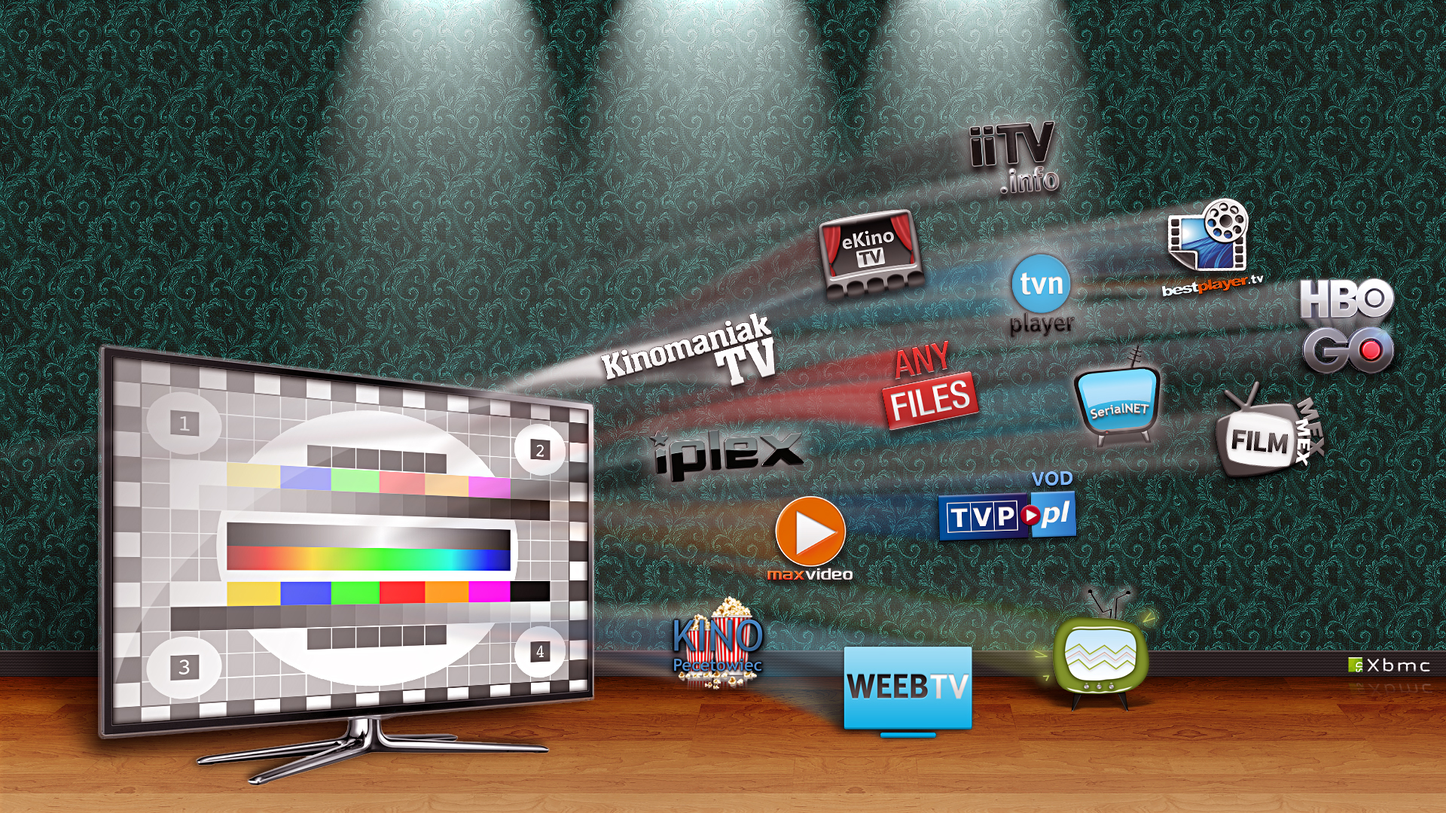
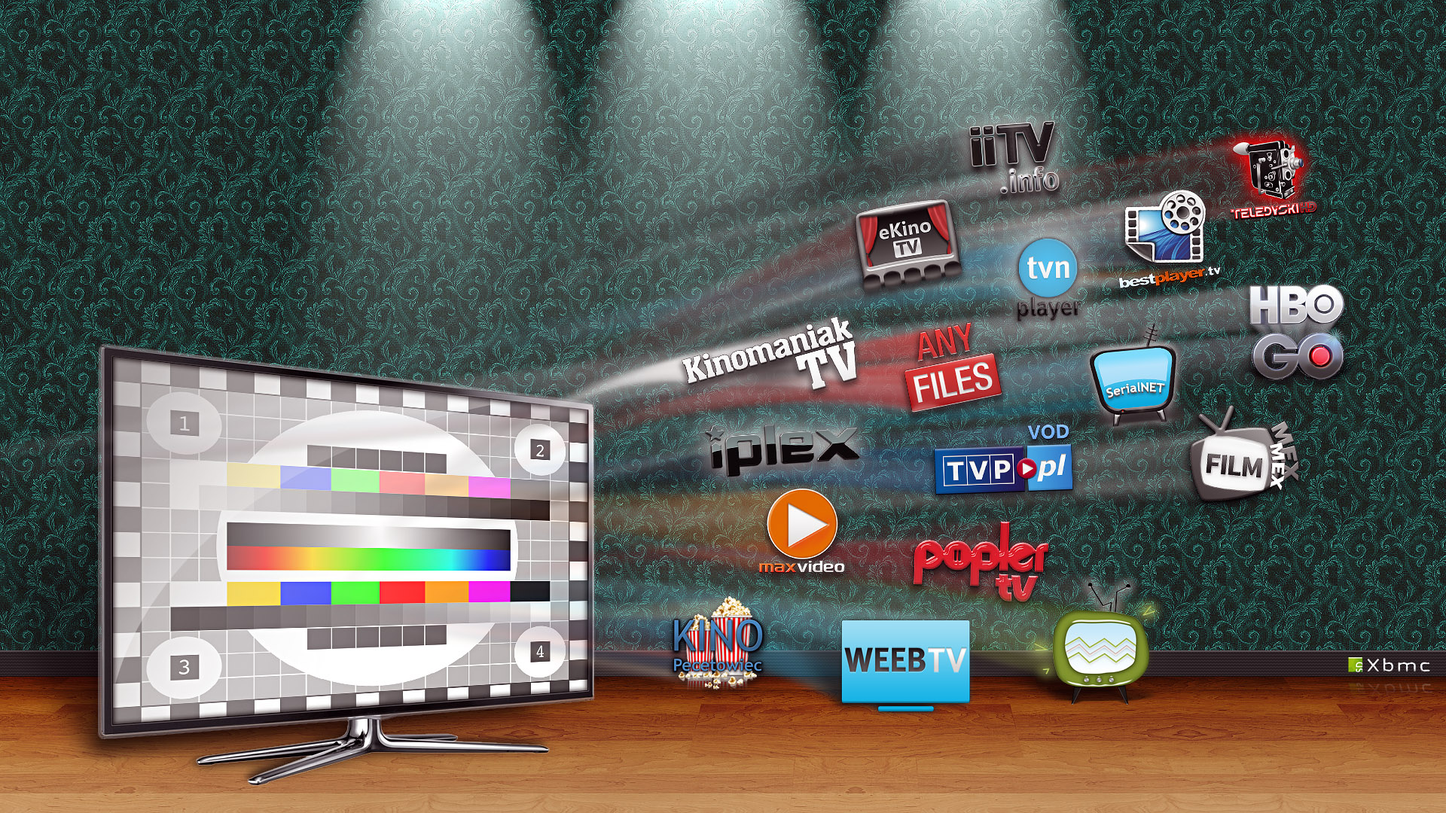
zmian wersji repo na 1.0.2

Changed region(s): [[0.3438, 0.1528, 0.9688, 0.9167]]

diff --git a/xbmc-addons/src/plugin.video.polishtv.live/default.py b/xbmc-addons/src/plugin.video.polishtv.live/default.py
@@ -1,4 +1,4 @@
-# -*- coding: utf-8 -*-
+# -*- coding: utf-8 -*-
 import urllib, urllib2, re, sys, xbmcplugin, xbmcgui
 import string, cookielib, StringIO
 import os, time, base64, logging, calendar
@@ -27,7 +27,7 @@ TV_ONLINE_TABLE = {
 		     100 : ["Weeb TV [wyświetl kanały]", 'weebtv'],
 		     101 : ["Włącz TV [wyświetl kanały]", 'wlacztv'],
 		     102 : ["Stacje TV [strumienie]", 'stations'],
-		     #103 : ["Popler TV", ''],
+		     103 : ["Popler TV", 'poplertv'],
 }
 
 
@@ -45,12 +45,12 @@ VOD_ONLINE_TABLE = {
 		     210: ["Kino Pecetowiec [filmy]", 'kinopecetowiec'],
 		     211: ["Maxvideo [różne filmy]", 'maxvideo'],
 		     212: ["Kinomaniak", 'kinomaniak'],
-             #213: ["Film.in", 'filmin'],
+		     #213: ["Film.in", 'filmin'],
 }
 
 ROZRYWKA_TABLE = {
-		     400: ["Kabarety", ''],
-                     401: ["Teledyski", ''],
+		     400: ["Kabarety", 'kabarety'],
+                     401: ["Teledyski", 'teledyski'],
 }
 
 REC_DOWN_TABLE = {
@@ -135,10 +135,10 @@ class PolishLiveTV:
 		
         elif mode == 4:
                 self.LIST(ROZRYWKA_TABLE)
-        elif mode == 400 or service == 'kabarety':
+        elif mode == 400 or service == ROZRYWKA_TABLE[400][1]:
                 vod = kabarety.Kabarety()
                 vod.handleService()
-        elif mode == 401 or service == 'teledyski':
+        elif mode == 401 or service == ROZRYWKA_TABLE[401][1]:
                 vod = teledyski.Teledyski()
                 vod.handleService()
 		

diff --git a/xbmc-addons/src/plugin.video.polishtv.live/hosts/stations.py b/xbmc-addons/src/plugin.video.polishtv.live/hosts/stations.py
@@ -20,7 +20,7 @@ CATEGORY_TAB = [
                 [2, "Sportowe", "tv_sportowe.png"],
                 [3, "Muzyczne", "tv_muzyczne.png"],
                 [4, "Religijne", "tv_religijne.png"],
-                [5, "Lokalne", "tv_ogolnotematyczne.png"],
+                [5, "Lokalne", "tv_lokalne.png"],
                 [6, "Zagraniczne", "tv_zagraniczne.png"],
                 [7, "Polskie stacje radiowe", "tv_stacjeradiowe.png"],
                 [8, "Okiem Kamery", "tv_okiemkamery.png"]
